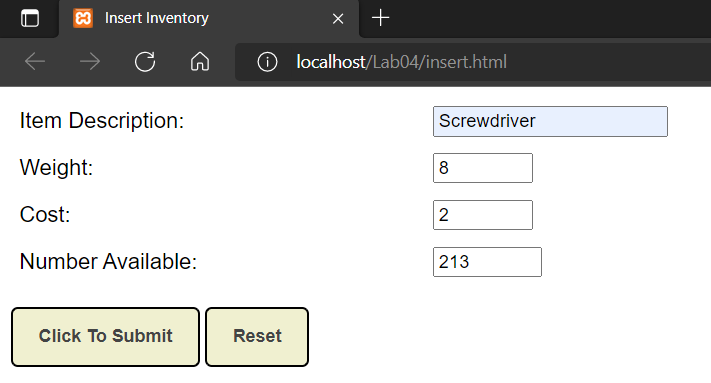
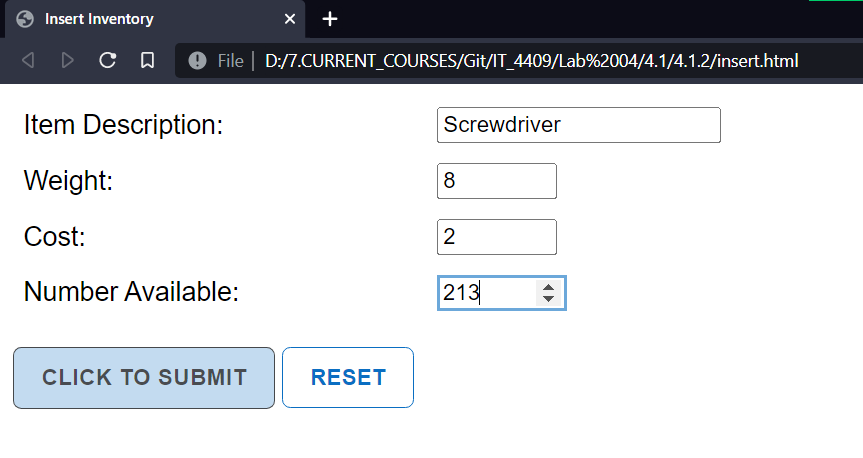
[fix]: refactor code, replace screenshots

diff --git a/Lab 04/4.1/4.1.2/insert.html b/Lab 04/4.1/4.1.2/insert.html
@@ -16,16 +16,57 @@
             text-align: left;
             padding: 6px;
         }
-
-        .button {
+        
+        		input:focus {
+            outline: none;
+            border: solid rgba(10, 110, 194, 0.6);
+        }
+        
+        input:focus {
+            outline: none;
+            border: solid rgba(10, 110, 194, 0.6);
+        }
+                
+        .containedButton {
             display: inline-block;
-            padding: 12px 18px;
             cursor: pointer;
             border-radius: 5px;
-            background-color: #f0f0d0;
+            border: 1px solid;
+            color: rgba(0, 0, 0, 0.87);
+            background-color: rgba(10, 110, 194, 0.3);
+            font-weight: bold;
+            padding: 6px 16px;
+            line-height: 1.75;
+            letter-spacing: 0.02857em;  
+            text-transform: uppercase;
+            opacity: 0.8;
+        }
+        
+        .outlineButton {
+            display: inline-block;
+            padding: 6px 16px;
+            cursor: pointer;
+            border-radius: 5px;
+            border: 1px solid rgba(10, 110, 194, 1);
+            color: rgba(10, 110, 194, 1);
+            background-color: transparent;
             font-size: 13px;
             font-weight: bold;
-            color: #444;
+            line-height: 1.75;
+            letter-spacing: 0.02857em; 
+            text-transform: uppercase;
+            
+        }
+        
+        .containedButton:hover {
+            background-color: rgba(10, 110, 194, 0.7);
+            transition: 0.7;
+        }
+        
+        .outlineButton:hover {
+            color: white;
+            background-color: rgba(10, 110, 194, 0.5);
+            transition: 0.7;
         }
     </style>
 </head>
@@ -51,8 +92,8 @@
             </tr>
         </table>
 
-        <input class="button" type="submit" value="Click To Submit">
-        <input class="button" type="reset" value="Reset">
+        <input class="containedButton" type="submit" value="Click To Submit">
+        <input class="outlineButton" type="reset" value="Reset">
     </form>
 </body>
 

diff --git a/Lab 04/4.1/4.1.4/search.html b/Lab 04/4.1/4.1.4/search.html
@@ -16,15 +16,51 @@
             margin: 16px;
         }
 
-        .button {
+        		input:focus {
+            outline: none;
+            border: solid rgba(10, 110, 194, 0.6);
+        }
+        
+        .containedButton {
             display: inline-block;
-            padding: 12px 18px;
             cursor: pointer;
             border-radius: 5px;
-            background-color: #f0f0d0;
+            border: 1px solid;
+            color: rgba(0, 0, 0, 0.87);
+            background-color: rgba(10, 110, 194, 0.3);
+            font-weight: bold;
+            padding: 6px 16px;
+            line-height: 1.75;
+            letter-spacing: 0.02857em;  
+            text-transform: uppercase;
+            opacity: 0.8;
+        }
+        
+        .outlineButton {
+            display: inline-block;
+            padding: 6px 16px;
+            cursor: pointer;
+            border-radius: 5px;
+            border: 1px solid rgba(10, 110, 194, 1);
+            color: rgba(10, 110, 194, 1);
+            background-color: transparent;
             font-size: 13px;
             font-weight: bold;
-            color: #444;
+            line-height: 1.75;
+            letter-spacing: 0.02857em; 
+            text-transform: uppercase;
+            
+        }
+        
+        .containedButton:hover {
+            background-color: rgba(10, 110, 194, 0.7);
+            transition: 0.7;
+        }
+        
+        .outlineButton:hover {
+            color: white;
+            background-color: rgba(10, 110, 194, 0.5);
+            transition: 0.7;
         }
     </style>
 </head>
@@ -38,8 +74,8 @@
                 <td><input type="text" size="16" maxlength="20" name="product_desc"></td>
             </tr>
         </table>
-        <input class="button" type="submit" value="Click To Submit">
-        <input class="button" type="reset" value="Reset">
+        <input class="containedButton" type="submit" value="Click To Submit">
+        <input class="outlineButton" type="reset" value="Reset">
     </form>
 </body>
 

diff --git a/Lab 04/4.1/4.1.5/startsale.php b/Lab 04/4.1/4.1.5/startsale.php
@@ -3,17 +3,6 @@
 <head>
     <title>Inventory Management</title>
     <style>
-        .button {
-            display: inline-block;
-            padding: 12px 18px;
-            cursor: pointer;
-            border-radius: 5px;
-            background-color: #f0f0d0;
-            font-size: 13px;
-            font-weight: bold;
-            color: #444;
-        }
-
         table {
             font-family: arial, sans-serif;
             border-collapse: collapse;
@@ -32,6 +21,48 @@
             margin: 8px;
             font-family: arial, sans-serif;
         }
+        
+        .containedButton {
+            display: inline-block;
+            cursor: pointer;
+            border-radius: 5px;
+            border: 1px solid;
+            color: rgba(0, 0, 0, 0.87);
+            background-color: rgba(10, 110, 194, 0.3);
+            font-weight: bold;
+            padding: 6px 16px;
+            line-height: 1.75;
+            letter-spacing: 0.02857em;  
+            text-transform: uppercase;
+            opacity: 0.8;
+        }
+        
+        .outlineButton {
+            display: inline-block;
+            padding: 6px 16px;
+            cursor: pointer;
+            border-radius: 5px;
+            border: 1px solid rgba(10, 110, 194, 1);
+            color: rgba(10, 110, 194, 1);
+            background-color: transparent;
+            font-size: 13px;
+            font-weight: bold;
+            line-height: 1.75;
+            letter-spacing: 0.02857em; 
+            text-transform: uppercase;
+            
+        }
+        
+        .containedButton:hover {
+            background-color: rgba(10, 110, 194, 0.7);
+            transition: 0.7;
+        }
+        
+        .outlineButton:hover {
+            color: white;
+            background-color: rgba(10, 110, 194, 0.5);
+            transition: 0.7;
+        }
     </style>
 </head>
 
@@ -43,8 +74,8 @@
             Screw Driver<input type="radio" name="product_desc" value="Screw Driver">
             Wrench<input type="radio" name="product_desc" value="Wrench">
         </div>
-        <input class="button" type="submit" value="Click To Submit">
-        <input class="button" type="reset" value="Reset">
+        <input class="containedButton" type="submit" value="Click To Submit">
+        <input class="outlineButton" type="reset" value="Reset">
     </form>
     <?php
     $server = 'localhost';
